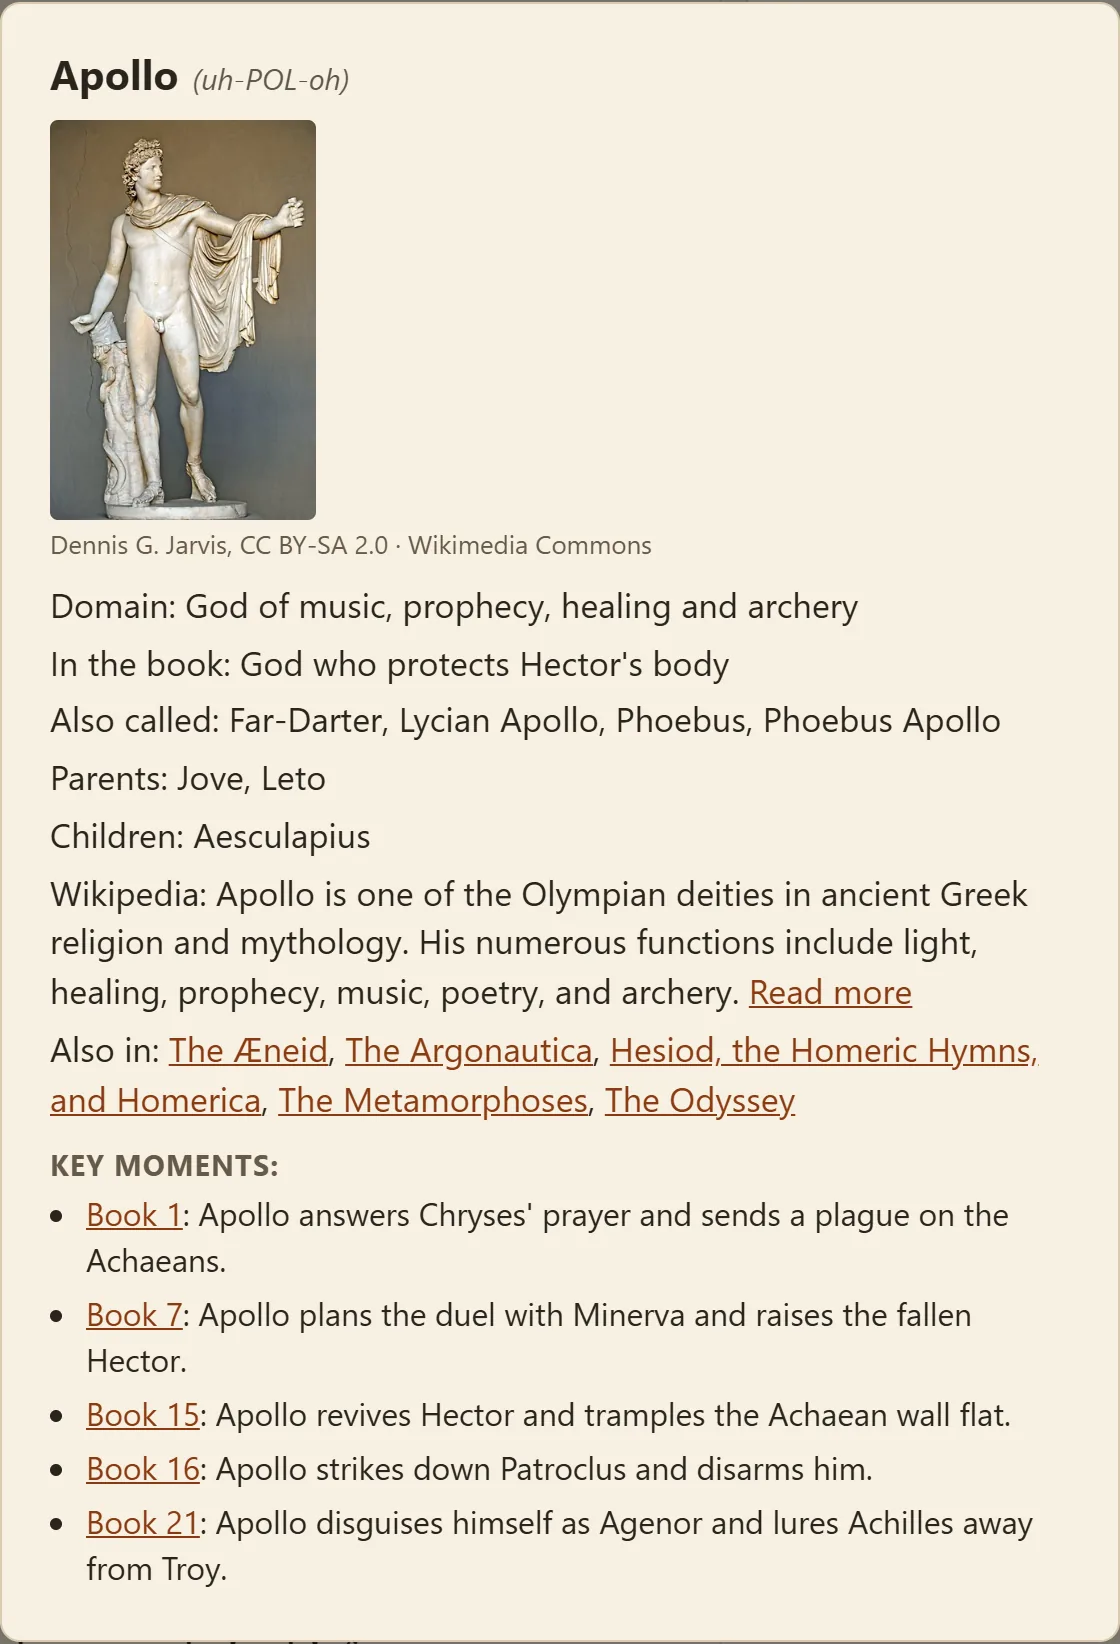
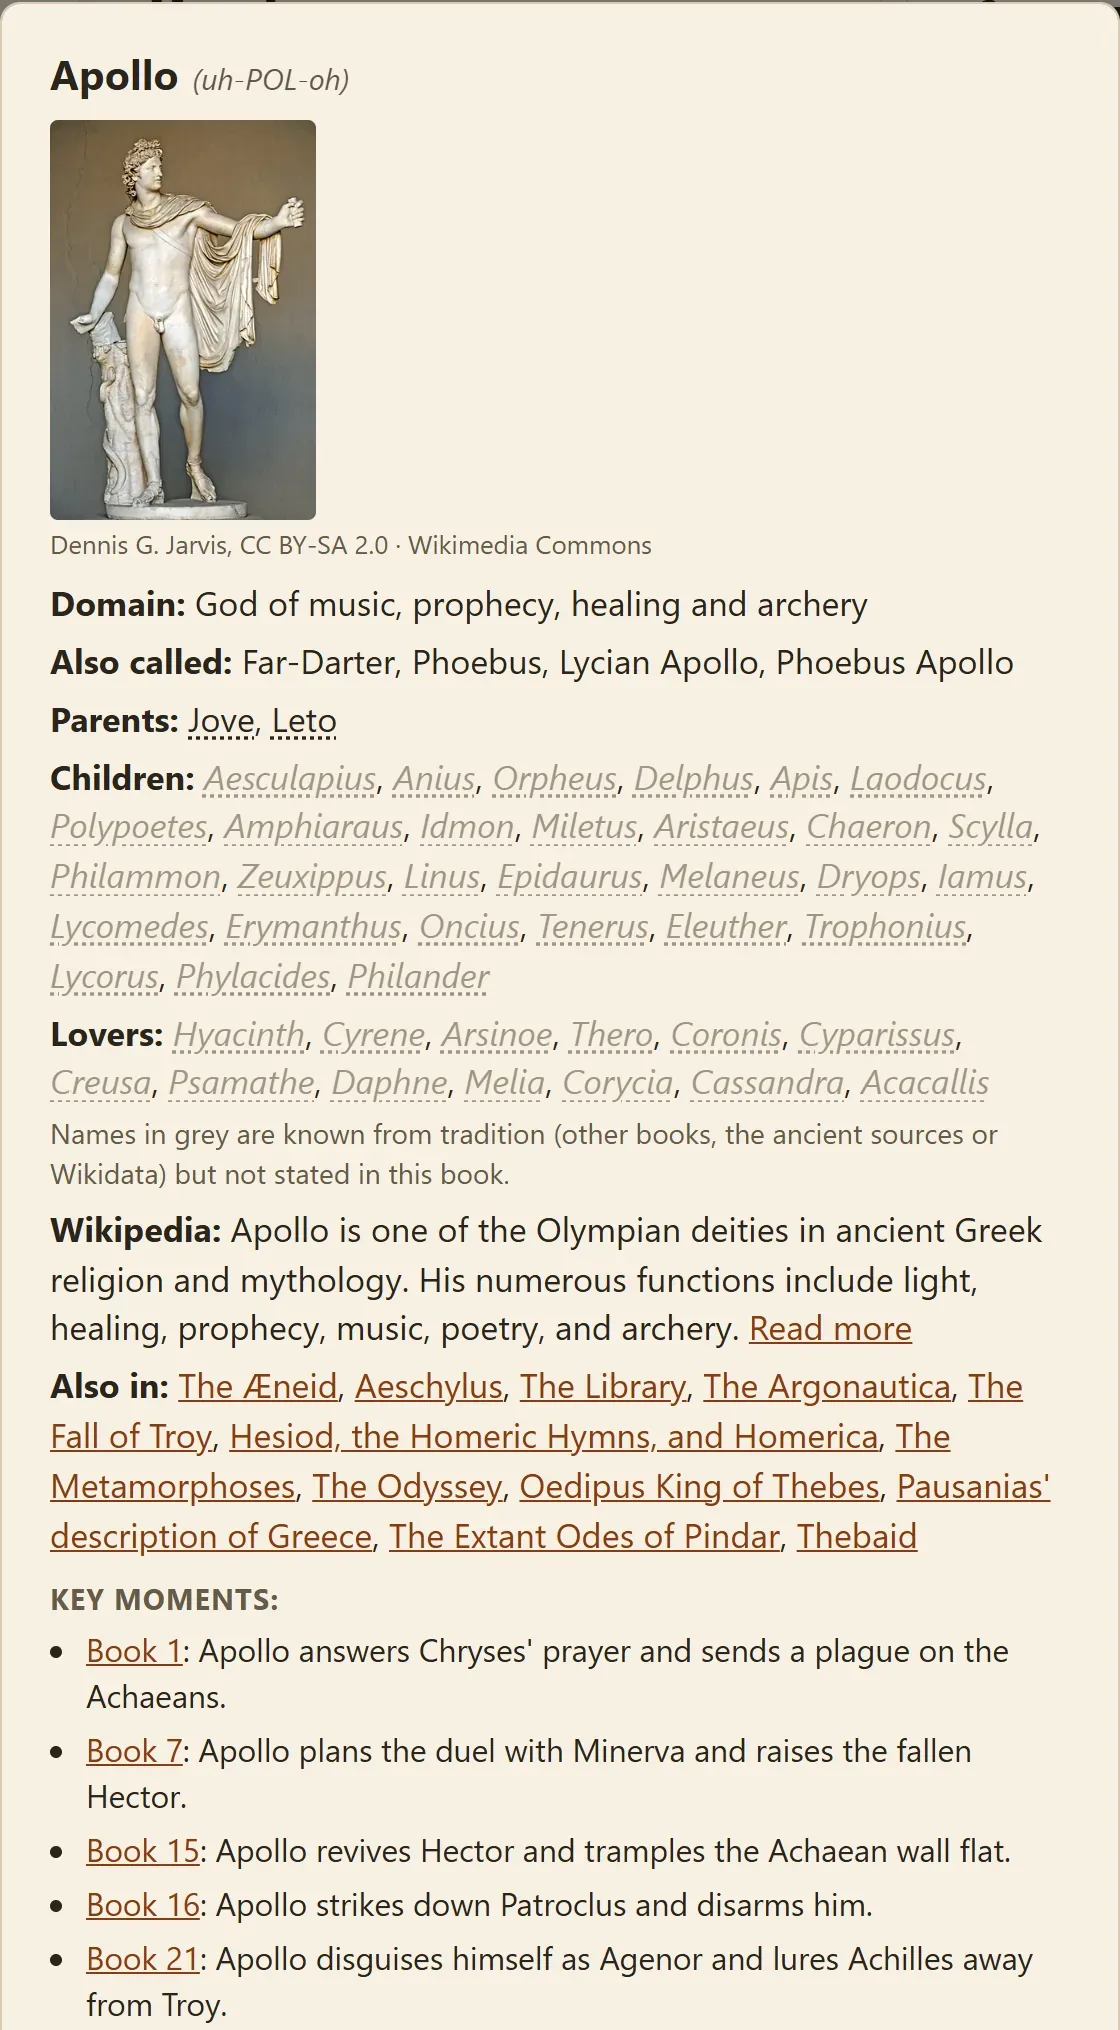
Landing page: new Apollo profile screenshot
Shows the profile as it is now: bold labels, the family across the library with
grey names for links this book does not state, and the longer "Also in" list.

Changed region(s): [[0.0, 0.031, 1.0, 1.0]]

diff --git a/web/welcome.html b/web/welcome.html
@@ -150,9 +150,9 @@
         <figcaption><strong>See who's related to whom.</strong> Apollo's family in one glance, from the Titans down to his son Asclepius. Gods in blue, mortals in orange.</figcaption>
       </figure>
       <figure class="shot tall">
-        <img src="/static/img/profile.webp" width="1120" height="1644" loading="lazy"
-             alt="Apollo's profile: a statue of him, his other names, his parents, Wikipedia's summary and his key moments in the Iliad.">
-        <figcaption><strong>Meet the gods.</strong> Apollo's profile: every name he goes by, his family, and the scenes where he really matters.</figcaption>
+        <img src="/static/img/profile.webp" width="1120" height="2030" loading="lazy"
+             alt="Apollo's profile in the Iliad: a statue of him, his other names, his parents Jove and Leto, his children and lovers in grey because they come from the other books, Wikipedia's summary, the other books he appears in and his key moments.">
+        <figcaption><strong>Meet the gods.</strong> Apollo's profile: every name he goes by, his whole family across the library (grey where this book doesn't say so), and the scenes where he really matters.</figcaption>
       </figure>
       <figure class="shot">
         <img src="/static/img/citations.webp" width="910" height="636" loading="lazy"
